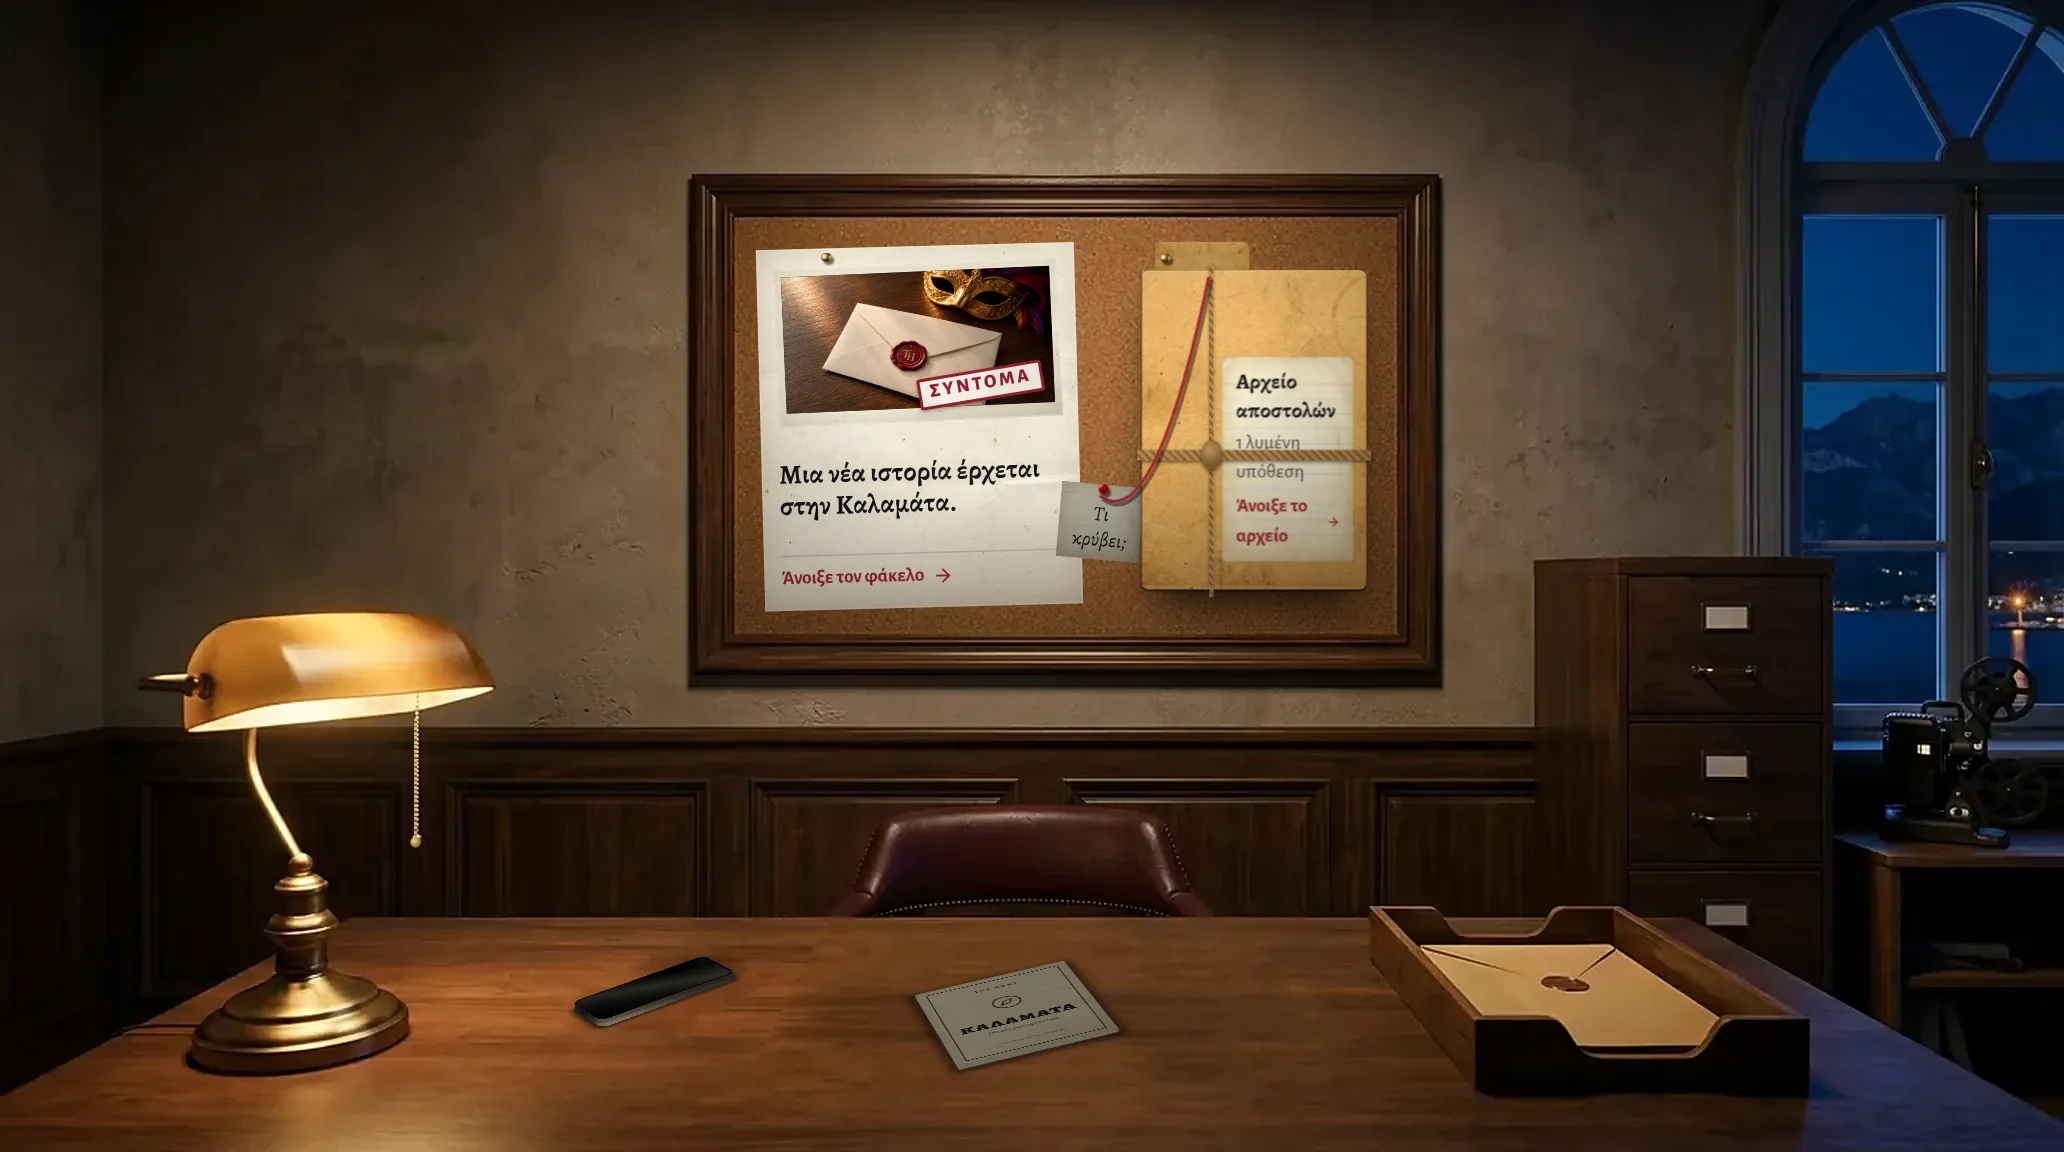
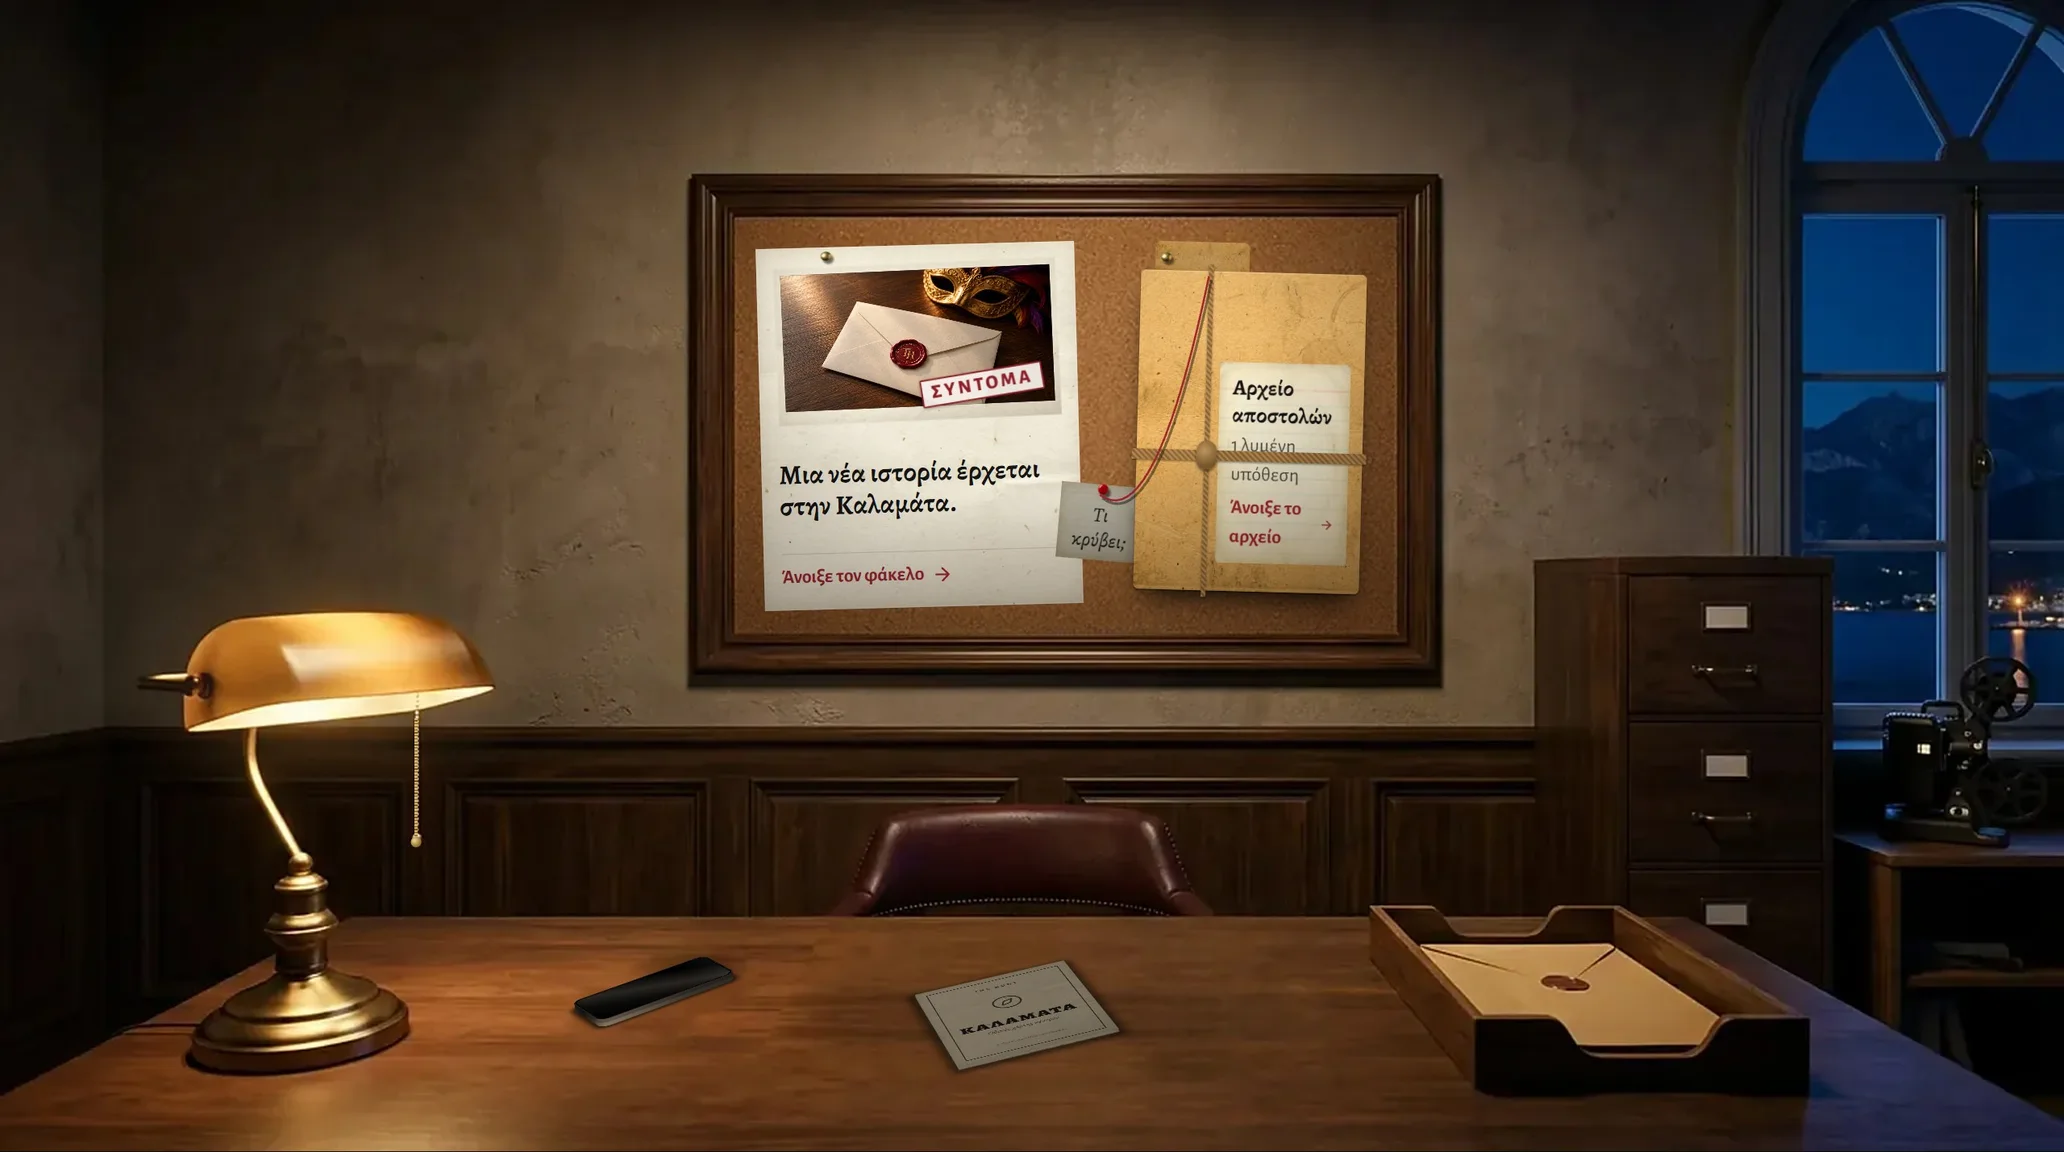
feat: add new landing page and update office hero image cache versioning

diff --git a/components/office/office-page.tsx b/components/office/office-page.tsx
@@ -166,7 +166,7 @@ export function OfficePage() {
             onToggleLocale={toggle}
             open={open}
             board={board("wall")}
-            heroPlate={`/office/room-hero-${locale}.webp`}
+            heroPlate={`/office/room-hero-${locale}.webp?v=2`}
             reduce={reduce}
             ready={ready}
             skipTitle={state.view !== null || atBoard}
@@ -275,6 +275,37 @@ function SceneFrame({ scene, children, className, sizes = "100vw" }: { scene: Sc
       )}
       {children}
     </div>
+  )
+}
+
+/**
+ * `/landing4heroimage`: the desktop room with every object (plate, board, phone, map, drawer, envelope, lamp) filling
+ * the screen, without header, title, hotspot tags or edge fades. For screenshotting the phone hero still.
+ */
+export function OfficeHeroImage({ locale }: { locale: "el" | "en" }) {
+  const copy = OFFICE_COPY[locale]
+  const reduce = useReducedMotion() ?? false
+  const noop = () => {}
+  return (
+    <main className="flex h-svh w-full items-center justify-center overflow-hidden bg-[#0b0a09]">
+      <div
+        className="@container/stage relative shrink-0"
+        style={{
+          aspectRatio: `${DESKTOP.width} / ${DESKTOP.height}`,
+          width: `min(100vw, calc(100svh * ${DESKTOP.width / DESKTOP.height}))`,
+        }}
+      >
+        <SceneFrame scene={DESKTOP} label="" className="absolute inset-0" sizes="100vw" />
+        <DeskPhone />
+        <DeskMap copy={copy} />
+        <DrawerPeek />
+        <DeskEnvelope />
+        <DeskLamp copy={copy} reduce={reduce} hidden />
+        <div className="absolute z-10" style={pct(DESKTOP.cork!)}>
+          <CaseBoard variant="desk" copy={copy} archiveOpen={false} reduce={reduce} onOpenCase={noop} onOpenArchived={noop} onArchive={noop} />
+        </div>
+      </div>
+    </main>
   )
 }
 

diff --git a/lib/site-maintenance.ts b/lib/site-maintenance.ts
@@ -11,7 +11,7 @@ import { SITE_MAINTENANCE } from "@/lib/maintenance"
  * account get through, and both must still resolve as superadmin; every other
  * visitor, signed in or not, is held at the screen.
  */
-const OPEN_DURING_MAINTENANCE = ["/vote", "/brand", "/landing", "/landing2", "/landing3", "/landing4", "/carnival", "/carnival-intro"]
+const OPEN_DURING_MAINTENANCE = ["/vote", "/brand", "/landing", "/landing2", "/landing3", "/landing4", "/landing4heroimage", "/carnival", "/carnival-intro"]
 
 function isOpenPath(pathname: string | null): boolean {
   if (!pathname) return false

diff --git a/app/landing4heroimage/page.tsx b/app/landing4heroimage/page.tsx
@@ -1,0 +1,12 @@
+import type { Metadata } from "next"
+import { OfficeHeroImage } from "@/components/office/office-page"
+
+export const metadata: Metadata = {
+  title: "The Hunt | Hero image",
+  robots: { index: false, follow: false },
+}
+
+export default async function Page({ searchParams }: { searchParams: Promise<{ lang?: string }> }) {
+  const { lang } = await searchParams
+  return <OfficeHeroImage locale={lang === "en" || lang === "eng" ? "en" : "el"} />
+}
